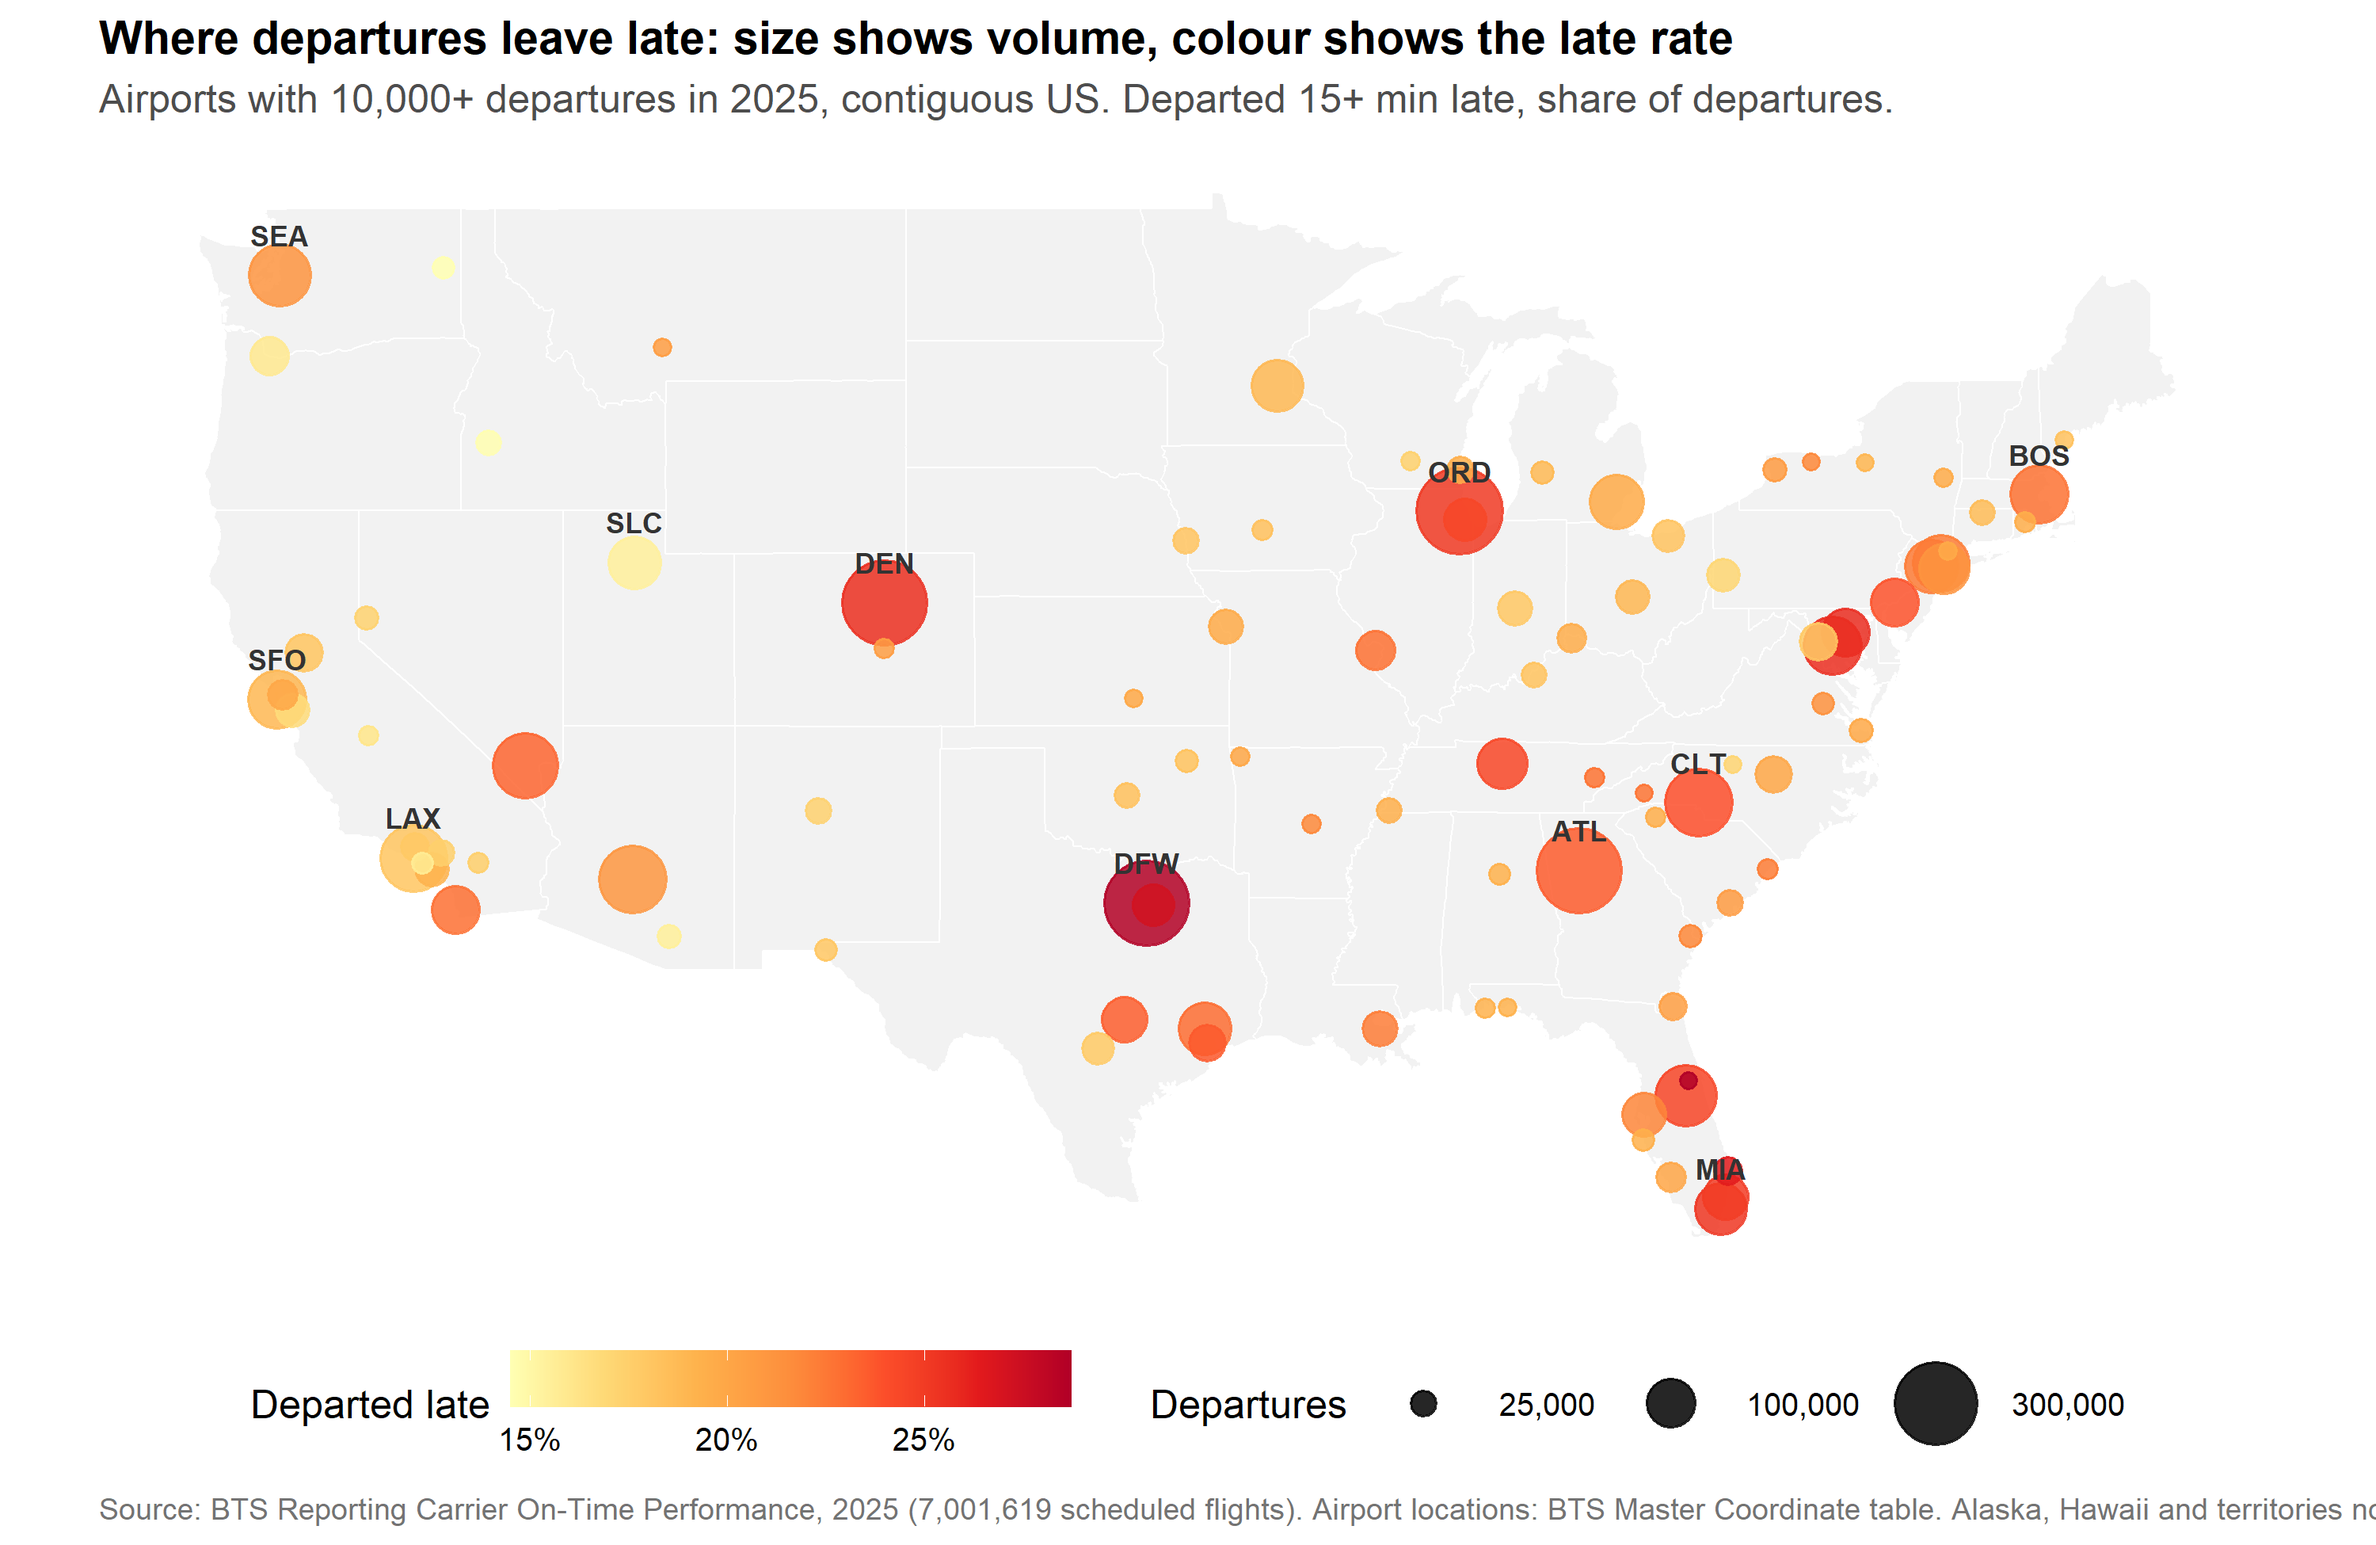
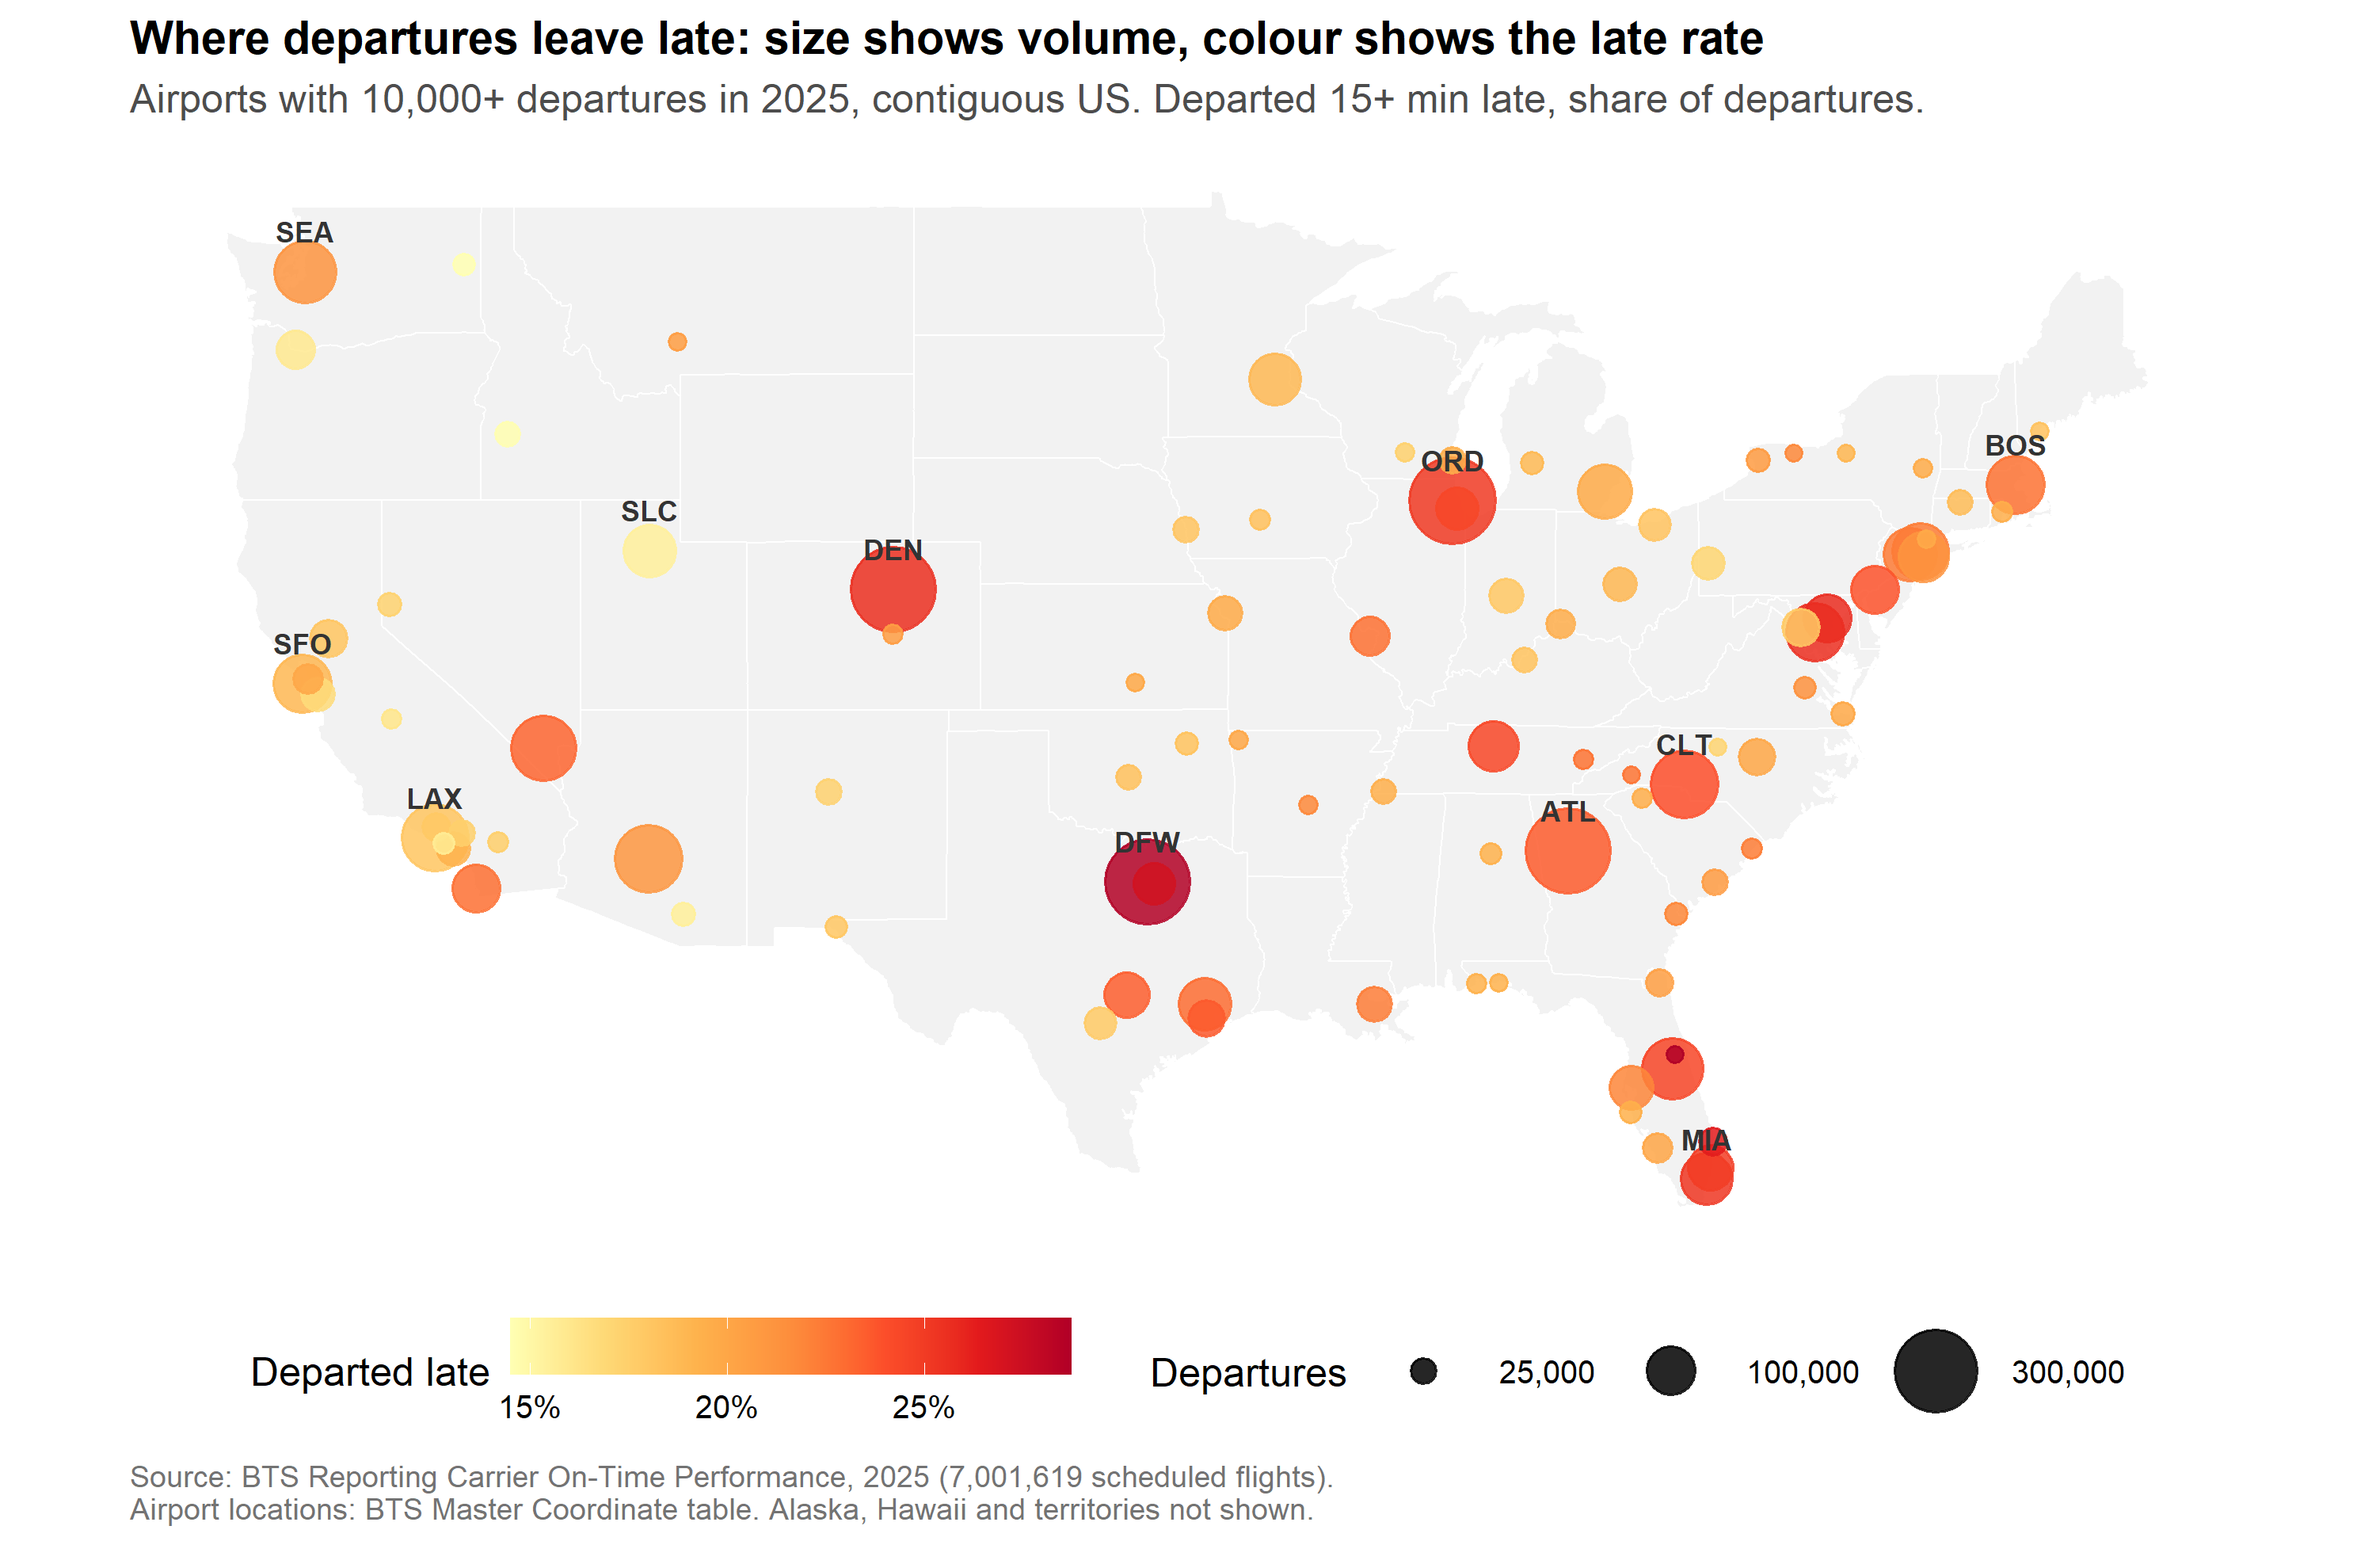
Q4 analysis, final figures, full decision log

diff --git a/README.md b/README.md
@@ -7,9 +7,9 @@ Group project for Data Exploration and Visualisation, commissioned by OA Aviatio
 | Q | Sub-question | Owner |
 |---|---|---|
 | Q1 | How do delay and cancellation rates vary across the year? | Zaid |
-| Q2 | How do delays build up through the day, and how much is associated with late-arriving aircraft? | _name_ |
-| Q3 | Where are delays concentrated, and do airport differences remain after accounting for traffic volume, time of day and carrier mix? | _name_ |
-| Q4 | Do carriers differ in delays and cancellations after comparing like-for-like, and do they handle disruption differently (cancel vs delay)? | _name_ |
+| Q2 | How do delays build up through the day, and how much is associated with late-arriving aircraft? | Sara |
+| Q3 | Where are delays concentrated, and do airport differences remain after accounting for traffic volume, time of day and carrier mix? | Nadia |
+| Q4 | Do carriers differ in delays and cancellations after comparing like-for-like, and do they handle disruption differently (cancel vs delay)? | Yousef |
 
 ---
 
@@ -150,9 +150,33 @@ External sources for the November FAA dates: AP, "What to know about 10% reducti
 | Exclusions | None from the dataset; the 180+ min band is reported but not interpreted (long gaps usually mean maintenance or idle periods, not a normal turnaround) |
 | Caution | Turnaround length is chosen by carriers, so buffer differences may partly reflect which carriers and airports schedule short turns |
 
-### Q3 — _to be completed by owner_ (include the Master Coordinate join: file name, download date, join key)
 
-### Q4 — _to be completed by owner_
+### Q3 — Airports (`R/08_q3_airports.R`)
+
+| Decision | Detail |
+|---|---|
+| Airport locations | BTS Master Coordinate table, `data/raw/T_MASTER_CORD_20261115_085059.zip`, downloaded 15 Nov 2026. Rows with AIRPORT_IS_LATEST = 1 (6,918 airports, one row each). Joined on OriginAirportID = AIRPORT_ID; all 352 origin airports matched |
+| Measure | Departure late rate (DepDel15) at the origin airport, so the airport is judged on its own departures, not on arrival delays from elsewhere |
+| Fair comparison (indirect standardisation) | Expected late rate = national late rate for the same carrier × month × scheduled hour, averaged over the airport's departures. Adjusted rate = observed ÷ expected × national rate (21.8%) |
+| Volume threshold | Map shows airports with ≥ 10,000 departures (103 airports, 92% of flights); ranking uses the 30 busiest airports so rates are not driven by small numbers |
+| Map | Contiguous US only (Alaska, Hawaii and territories not drawn). Point size = departures (count), colour = departure late rate (rate), as the ToR requires counts and rates to be separated. State outlines from the `maps` package |
+| Stability check | Raw monthly rank among the 30 busiest airports: DFW in the top 5 in 10 of 12 months and the top 10 in all 12; SLC never in the top 5 and last in the median month |
+| Same-carrier check | American's departure late rate compared across its hubs (DFW vs CLT, PHX, etc.) to separate an airport effect from a carrier effect |
+| Exclusions | None from the dataset |
+| Caution | Adjustment covers carrier, month and hour only; route mix, weather exposure and airport capacity are not adjusted for |
+
+### Q4 — Carriers (`R/09_q4_carriers.R`)
+
+| Decision | Detail |
+|---|---|
+| Carrier unit | Reporting (operating) carrier, 14 carriers. Regionals (OO, YX, MQ, OH) fly for mainline brands; the data do not say which brand, so they are analysed as their own carriers |
+| Measures | Arrival late rate (ArrDel15, flights that arrived); cancellation rate; diversion rate; "disrupted" = late, cancelled or diverted; share 3+ h late; 12+ h late per 10,000 flights |
+| Fair comparison (indirect standardisation) | Expected rate = national rate for the same origin airport × month × scheduled hour, averaged over the carrier's flights. Adjusted = observed ÷ expected × national rate (late 22.3%, cancelled 1.47%) |
+| Stability check | Adjusted late-rate rank recomputed for each month: Envoy in the top 3 in 10 of 12 months; Frontier and Hawaiian in the bottom 3 in 10 of 12 |
+| High-disruption days | Top 5% of days by national cancellation rate (19 days, ≥ 5.3% cancelled); carrier cancellation rate and 3+ h late share compared on these days vs all other days |
+| Regional vs mainline | Same origin airport, same day: airport-days with both regional and mainline flights, grouped by the airport-day's overall cancellation rate (< 2%, 2–10%, 10%+) |
+| Exclusions | None |
+| Cautions | Where one carrier dominates an airport (e.g. Hawaiian at Hawaii airports), its expected rate is driven partly by its own flights. Carriers record some fields differently (see audit). The data cannot show why a flight was cancelled rather than delayed, so "protecting mainline flights" is a hypothesis |
 
 ---
 
